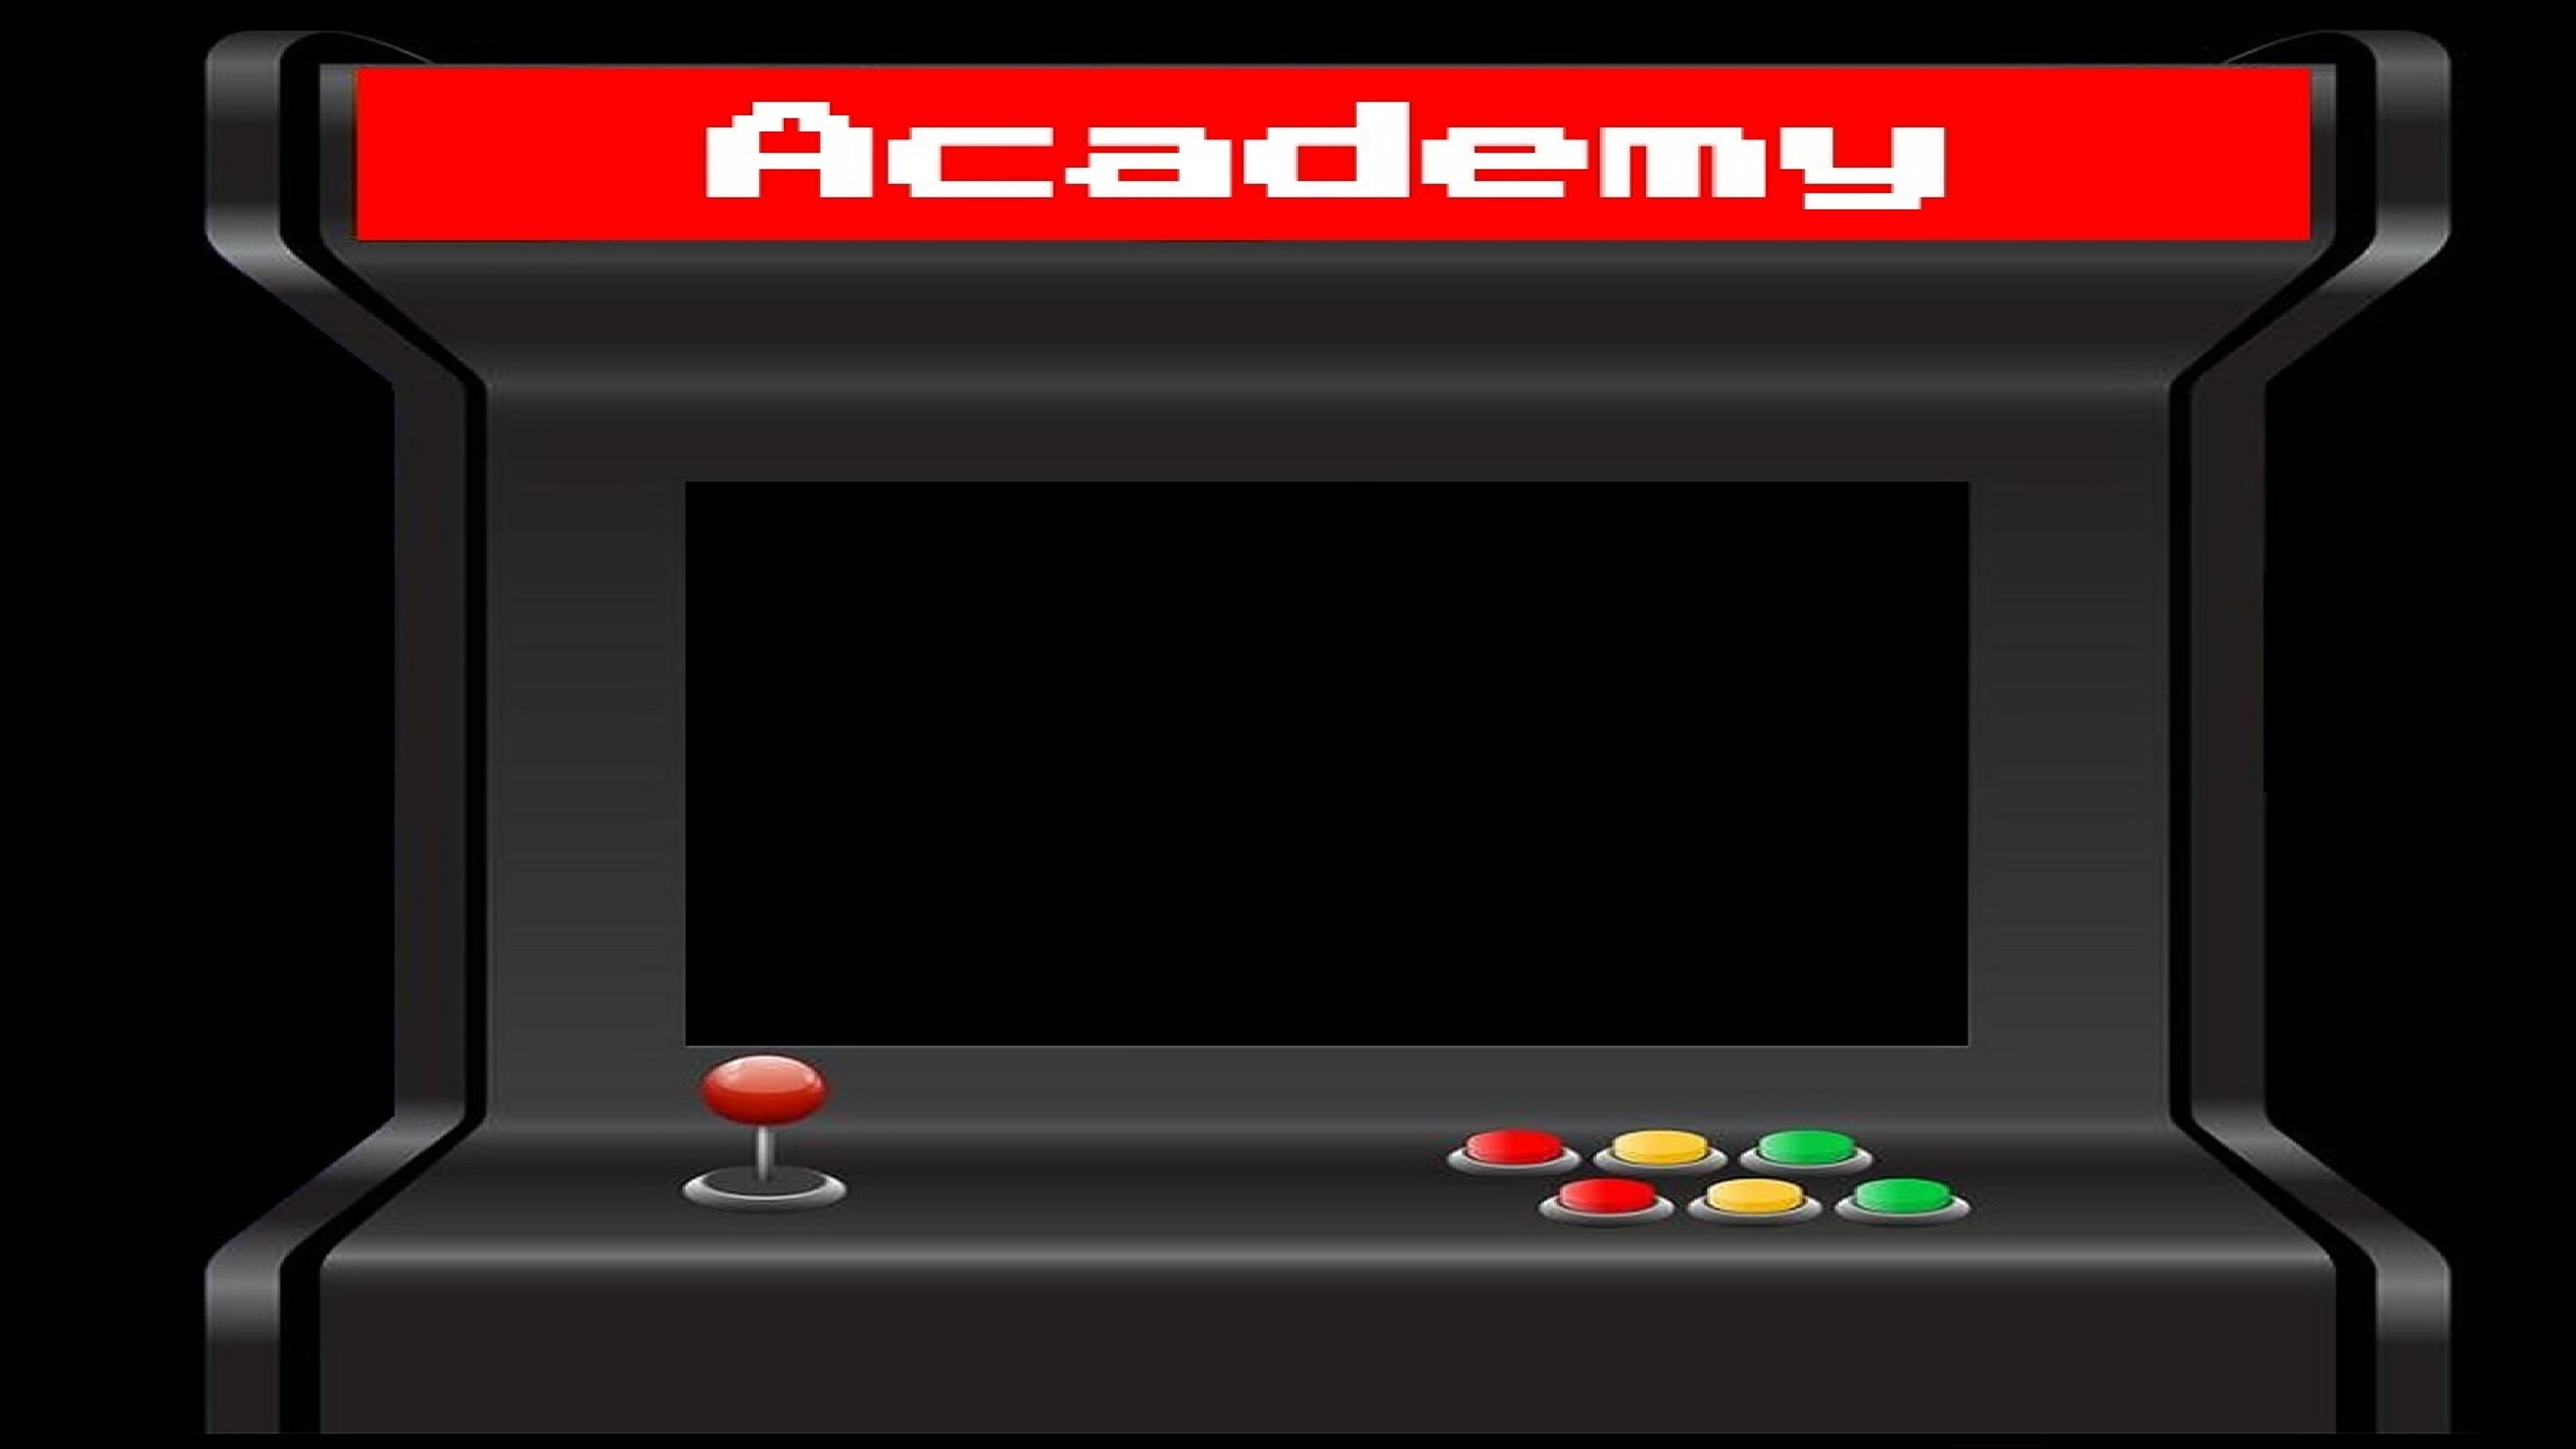
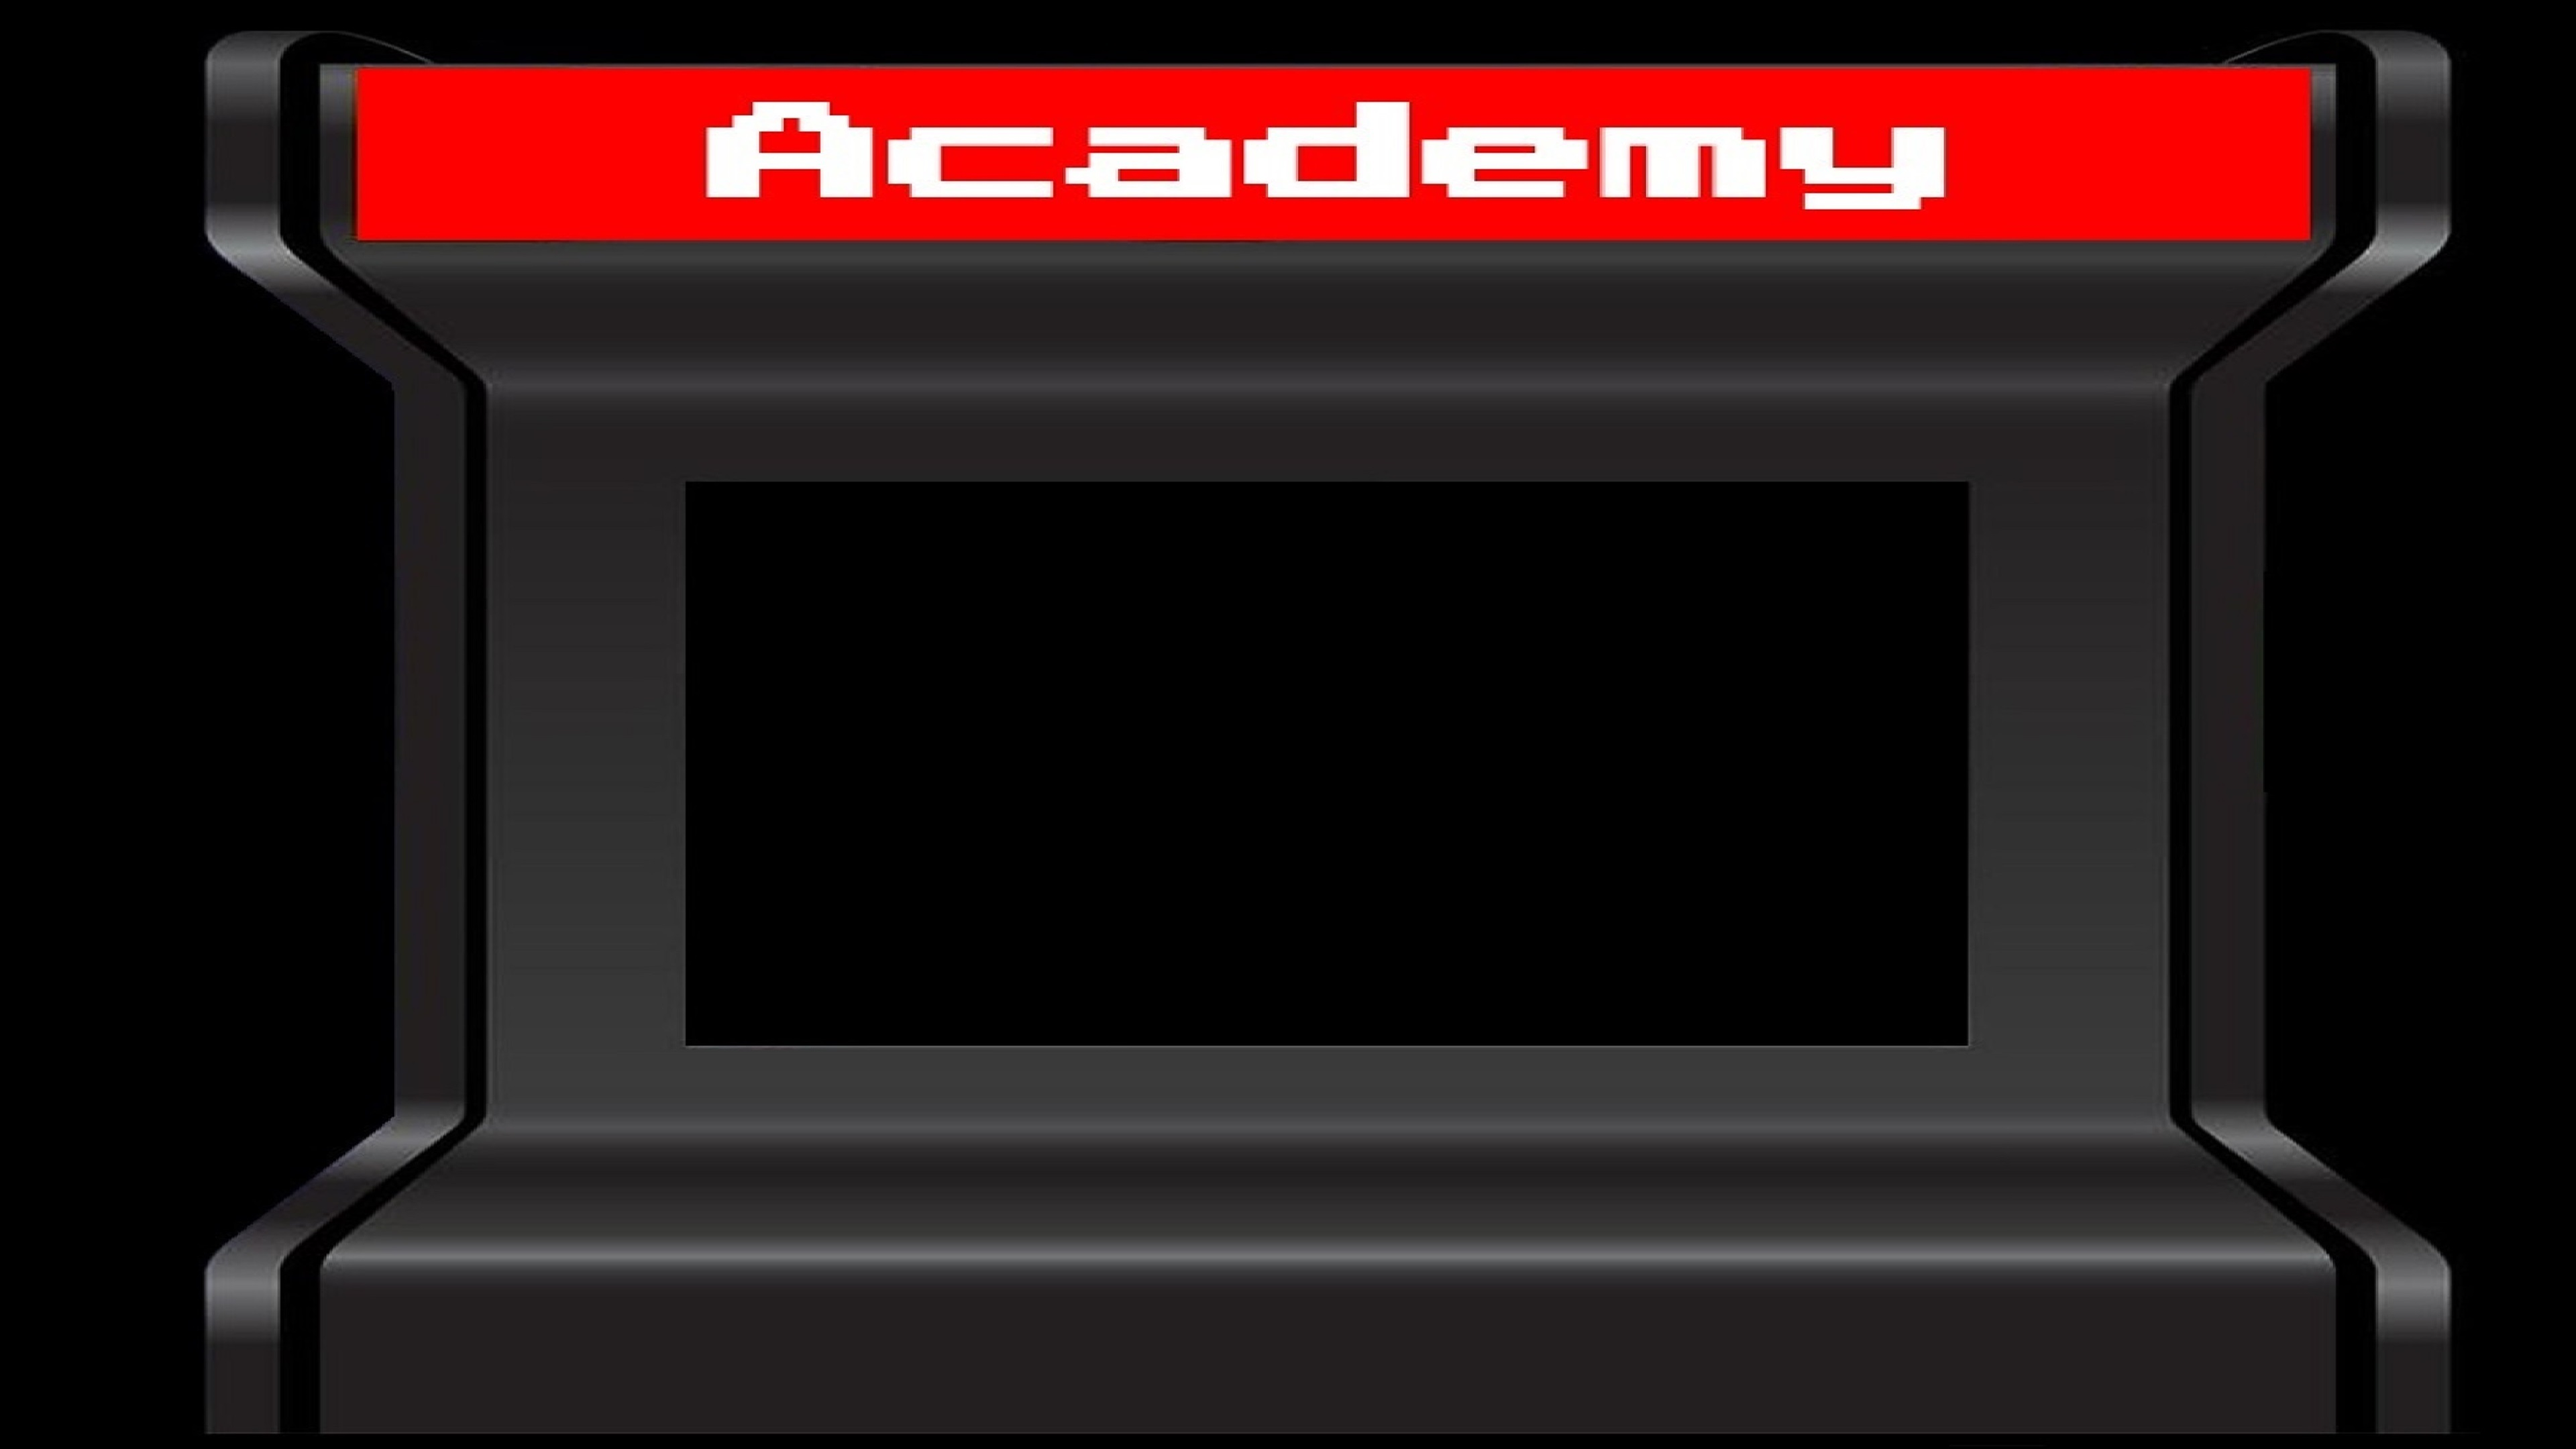
Removed unused arcade styling from the images

Changed region(s): [[0.5625, 0.7755, 0.7812, 0.8685], [0.25, 0.7134, 0.3438, 0.8375]]

diff --git a/css/academy.css b/css/academy.css
@@ -280,6 +280,21 @@ button:hover {
   width: 100%;
 }
 
+/* .academy-inner {
+  position: relative;
+  width: 50rem;
+  height: 50rem;
+  background: white;
+} */
+
+.insert-button {
+  font-size: 1vw;
+  font-family: "Press Start 2P", sans-serif;
+  font-weight: 500;
+  color: black;
+  line-height: 3rem;
+}
+
 .arcade-machine1 {
   position: relative;
   width: 100vw;
@@ -593,6 +608,12 @@ button:hover {
   }
 }
 
+@media (max-width: 1000px) {
+  .academy-header-text {
+    font-size: 7.5vw;
+  }
+}
+
 @media (max-width: 950px) {
   .bottom-container {
     left: 5vw;
@@ -644,9 +665,11 @@ button:hover {
   .content {
     height: 90rem;
   }
-
-  .academy-title {
-    font-size: 3.8vw;
+  .academy-header-text {
+    font-size: 7vw;
+  }
+  .academy-header-subtext {
+    padding-left: 2rem;
   }
 }
 
@@ -671,10 +694,11 @@ button:hover {
   }
   .academy-header-text {
     padding-left: 0.5rem;
+    font-size: 7vw;
   }
   .academy-header-subtext {
-    padding-left: 2rem;
-    font-size: 5vw;
+    padding-left: 1rem;
+    font-size: 4.5vw;
   }
 }
 

diff --git a/academy.html b/academy.html
@@ -69,6 +69,12 @@
             class="arcade-machine2 hide-link"
           />
         </div>
+        <div class="academy-inner">
+          <p class="insert-button">
+            Insert:<br />
+            0.1 $SOL
+          </p>
+        </div>
       </div>
     </main>
     <footer>
